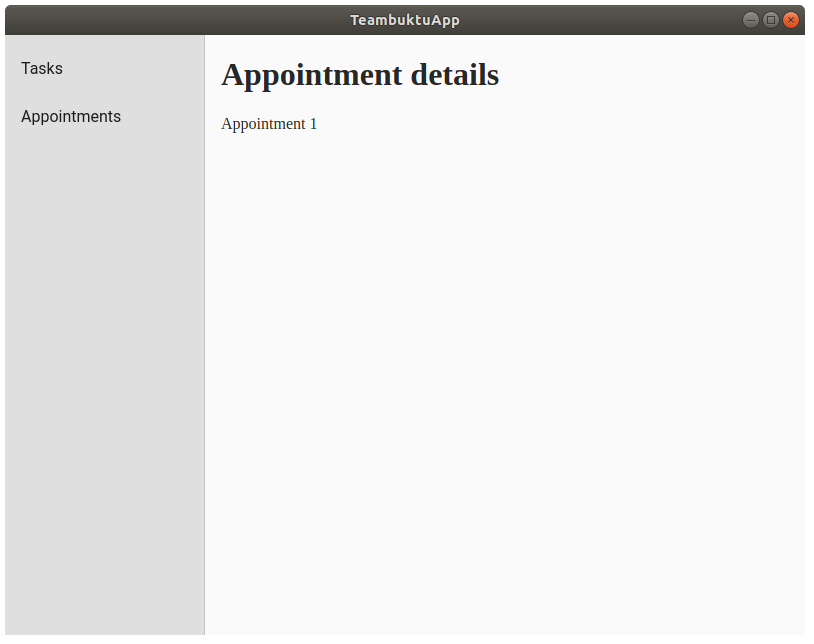
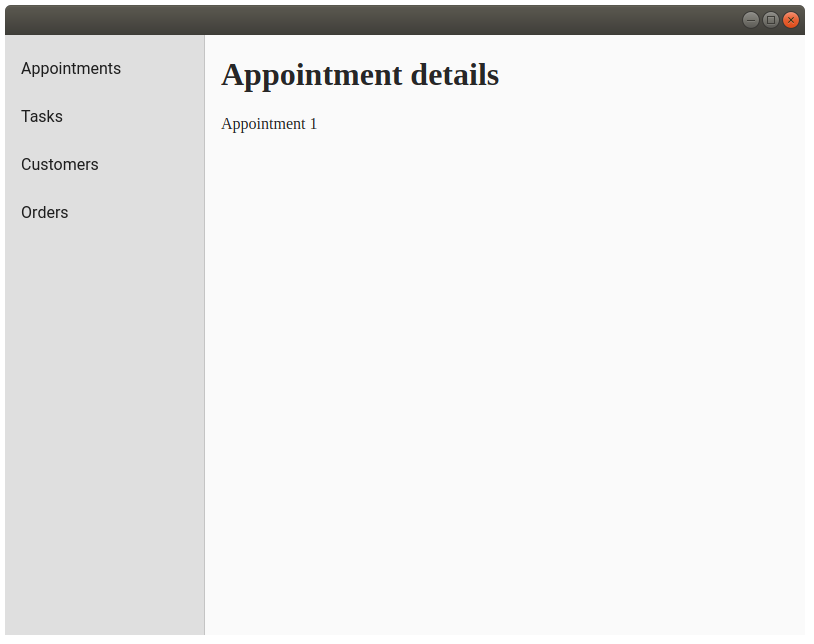
Fixed some stuff

diff --git a/Aufgabe3/teambuktu-app/src/app/components/root.html b/Aufgabe3/teambuktu-app/src/app/components/root.html
@@ -6,8 +6,10 @@
                  [fixedBottomGap]="0">
     
         <mat-nav-list>
-            <a mat-list-item [routerLink]="['/tasks']">Tasks</a>
             <a mat-list-item [routerLink]="['/appointments']">Appointments</a>
+            <a mat-list-item [routerLink]="['/tasks']">Tasks</a>
+            <a mat-list-item [routerLink]="['/appointments']">Customers</a>
+            <a mat-list-item [routerLink]="['/appointments']">Orders</a>
         </mat-nav-list>
 
     </mat-sidenav>

diff --git a/Aufgabe3/teambuktu-app/main.js b/Aufgabe3/teambuktu-app/main.js
@@ -19,7 +19,7 @@ function createWindow() {
   //Remove menu when shipping
   win.setMenu(null);
   
-  win.setTitle("Teambuktu")
+  win.setTitle(" ")
 
   // The following is optional and will open the DevTools:
   // win.webContents.openDevTools()

diff --git a/Aufgabe3/teambuktu-app/src/index.html b/Aufgabe3/teambuktu-app/src/index.html
@@ -2,7 +2,7 @@
 <html lang="en">
 <head>
   <meta charset="utf-8">
-  <title>TeambuktuApp</title>
+  <title> </title>
   <base href="/">
 
   <meta name="viewport" content="width=device-width, initial-scale=1">
